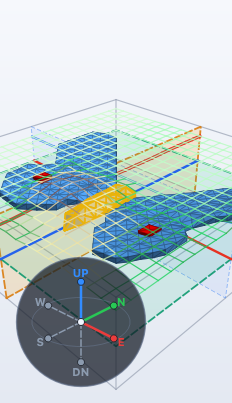
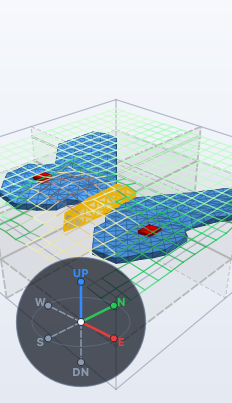
style(3d): draw profile slices and planar view in neutral grey and group checkboxes in 3d settings

diff --git a/gui/src/GL3DView.cpp b/gui/src/GL3DView.cpp
@@ -1933,7 +1933,7 @@ void GL3DView::paintSoftware(QPainter &painter) {
     double z0 = model.z_min_val();
     double z1 = model.z_max_val();
 
-    // Inactive slices (subtle blue)
+    // Inactive slices (subtle neutral grey)
     int rMaxSw = model.rows() - 2;
     int cMaxSw = model.cols() - 2;
     OctantCutState cutSw = computeOctantCutState();
@@ -1955,13 +1955,13 @@ void GL3DView::paintSoftware(QPainter &painter) {
              << project(x, model.y_max_val(), z1).first
              << project(x, model.y_min_val(), z1).first;
       }
-      painter.setBrush(m_transparentProfiles ? QColor(59, 130, 246, 20)
+      painter.setBrush(m_transparentProfiles ? QColor(140, 140, 140, 16)
                                              : Qt::NoBrush);
-      painter.setPen(QPen(QColor(59, 130, 246, 120), 1.0, Qt::DashLine));
+      painter.setPen(QPen(QColor(140, 140, 140, 110), 1.0, Qt::DashLine));
       painter.drawPolygon(poly);
 
-      // Relief intersection curve highlighted with inactive profile plane color
-      painter.setPen(QPen(QColor(59, 130, 246), 2.2, Qt::SolidLine));
+      // Relief intersection curve in neutral grey
+      painter.setPen(QPen(QColor(140, 140, 140), 1.8, Qt::SolidLine));
       if (sl.orient == ProfileOrientation::EastWest) {
         int rowIdx = std::clamp(sl.index + 1, 1, rMaxSw);
         double y = model.yd_val(rowIdx);
@@ -1991,7 +1991,7 @@ void GL3DView::paintSoftware(QPainter &painter) {
       }
     }
 
-    // Active slice (prominent amber / red)
+    // Active slice (clean neutral grey)
     for (const auto &sl : swSlices) {
       if (!sl.isActive)
         continue;
@@ -2009,13 +2009,13 @@ void GL3DView::paintSoftware(QPainter &painter) {
              << project(x, model.y_max_val(), z1).first
              << project(x, model.y_min_val(), z1).first;
       }
-      painter.setBrush(m_transparentProfiles ? QColor(245, 158, 11, 45)
+      painter.setBrush(m_transparentProfiles ? QColor(170, 170, 170, 36)
                                              : Qt::NoBrush);
-      painter.setPen(QPen(QColor(217, 119, 6, 220), 1.8, Qt::DashLine));
+      painter.setPen(QPen(QColor(180, 180, 180, 220), 1.8, Qt::DashLine));
       painter.drawPolygon(poly);
 
-      // Relief intersection curve highlighted with active profile plane color
-      painter.setPen(QPen(QColor(230, 50, 35), 3.2, Qt::SolidLine));
+      // Relief intersection curve in crisp silver-grey
+      painter.setPen(QPen(QColor(200, 200, 200), 2.8, Qt::SolidLine));
       if (sl.orient == ProfileOrientation::EastWest) {
         int rowIdx = std::clamp(sl.index + 1, 1, rMaxSw);
         double y = model.yd_val(rowIdx);
@@ -2046,7 +2046,7 @@ void GL3DView::paintSoftware(QPainter &painter) {
     }
   }
 
-  // 3b. Horizontal Planar View Plane in Software Mode
+  // 3b. Horizontal Planar View Plane in Software Mode (neutral grey)
   if (m_showPlanarPlane) {
     double sliceZ = m_doc->activeSliceElevation();
     if (std::isnan(sliceZ)) {
@@ -2069,12 +2069,12 @@ void GL3DView::paintSoftware(QPainter &painter) {
          << project(model.x_max_val(), model.y_max_val(), sliceZ).first
          << project(model.x_min_val(), model.y_max_val(), sliceZ).first;
 
-    painter.setBrush(m_transparentProfiles ? QColor(16, 185, 129, 32)
+    painter.setBrush(m_transparentProfiles ? QColor(150, 150, 150, 24)
                                            : Qt::NoBrush);
-    painter.setPen(QPen(QColor(5, 150, 105, 220), 1.8, Qt::DashLine));
+    painter.setPen(QPen(QColor(175, 175, 175, 220), 1.8, Qt::DashLine));
     painter.drawPolygon(poly);
 
-    // Draw profile intersection lines on the planar sheet
+    // Draw profile intersection lines on the planar sheet in neutral grey
     std::vector<double> ewYs;
     std::vector<double> snXs;
     if (QMdiArea *mdi = findMdiArea()) {
@@ -2096,19 +2096,18 @@ void GL3DView::paintSoftware(QPainter &painter) {
       }
     }
 
-    painter.setPen(QPen(QColor(230, 50, 35), 2.4, Qt::SolidLine));
+    painter.setPen(QPen(QColor(180, 180, 180), 2.0, Qt::SolidLine));
     for (double y : ewYs) {
       painter.drawLine(project(model.x_min_val(), y, sliceZ).first,
                        project(model.x_max_val(), y, sliceZ).first);
     }
-    painter.setPen(QPen(QColor(37, 99, 235), 2.4, Qt::SolidLine));
     for (double x : snXs) {
       painter.drawLine(project(x, model.y_min_val(), sliceZ).first,
                        project(x, model.y_max_val(), sliceZ).first);
     }
 
-    // Crosshairs at 3-plane intersections
-    painter.setPen(QPen(QColor(234, 179, 8), 3.0, Qt::SolidLine));
+    // Crosshairs at 3-plane intersections in silver-grey
+    painter.setPen(QPen(QColor(215, 215, 215), 2.5, Qt::SolidLine));
     for (double x : snXs) {
       for (double y : ewYs) {
         auto pt = project(x, y, sliceZ).first;
@@ -3303,11 +3302,11 @@ void GL3DView::drawProfilePlane() {
       profileTris.push_back({p3.x(), p3.y(), p3.z(), r, g, b, a});
     };
 
-    // Inactive profile planes
+    // Inactive profile planes (subtle translucent neutral grey)
     for (const auto &sl : slices) {
       if (sl.isActive)
         continue;
-      float r = 0.35f, g = 0.55f, b = 0.85f, a = 0.08f;
+      float r = 0.55f, g = 0.55f, b = 0.55f, a = 0.06f;
       if (sl.orient == ProfileOrientation::EastWest) {
         float y = static_cast<float>(m.yd_val(sl.index + 1));
         addQuad(QVector3D(x0, y, z0), QVector3D(x1, y, z0),
@@ -3319,11 +3318,11 @@ void GL3DView::drawProfilePlane() {
       }
     }
 
-    // Active profile plane
+    // Active profile plane (clean translucent neutral grey)
     for (const auto &sl : slices) {
       if (!sl.isActive)
         continue;
-      float r = 0.96f, g = 0.28f, b = 0.22f, a = 0.26f;
+      float r = 0.65f, g = 0.65f, b = 0.65f, a = 0.16f;
       if (sl.orient == ProfileOrientation::EastWest) {
         float y = static_cast<float>(m.yd_val(sl.index + 1));
         addQuad(QVector3D(x0, y, z0), QVector3D(x1, y, z0),
@@ -3363,7 +3362,7 @@ void GL3DView::drawProfilePlane() {
   for (const auto &sl : slices) {
     if (sl.isActive)
       continue;
-    float r = 0.35f, g = 0.60f, b = 0.85f, a = 0.50f;
+    float r = 0.55f, g = 0.55f, b = 0.55f, a = 0.45f;
     if (sl.orient == ProfileOrientation::EastWest) {
       float y = static_cast<float>(m.yd_val(sl.index + 1));
       addLoopLines(inactiveLines, QVector3D(x0, y, z0), QVector3D(x1, y, z0),
@@ -3378,21 +3377,21 @@ void GL3DView::drawProfilePlane() {
   for (const auto &sl : slices) {
     if (!sl.isActive)
       continue;
-    float r = 0.96f, g = 0.20f, b = 0.15f, a = 0.95f;
+    float r = 0.75f, g = 0.75f, b = 0.75f, a = 0.90f;
     if (sl.orient == ProfileOrientation::EastWest) {
       float y = static_cast<float>(m.yd_val(sl.index + 1));
       addLoopLines(activeLines, QVector3D(x0, y, z0), QVector3D(x1, y, z0),
                    QVector3D(x1, y, z1), QVector3D(x0, y, z1), r, g, b, a);
-      // Golden accent line on top ridge
-      ridgeLines.push_back({x0, y, z1, 1.0f, 0.85f, 0.20f, 0.95f});
-      ridgeLines.push_back({x1, y, z1, 1.0f, 0.85f, 0.20f, 0.95f});
+      // Silver-grey accent line on top ridge
+      ridgeLines.push_back({x0, y, z1, 0.85f, 0.85f, 0.85f, 0.92f});
+      ridgeLines.push_back({x1, y, z1, 0.85f, 0.85f, 0.85f, 0.92f});
     } else {
       float x = static_cast<float>(m.xd_val(sl.index + 1));
       addLoopLines(activeLines, QVector3D(x, y0, z0), QVector3D(x, y1, z0),
                    QVector3D(x, y1, z1), QVector3D(x, y0, z1), r, g, b, a);
-      // Golden accent line on top ridge
-      ridgeLines.push_back({x, y0, z1, 1.0f, 0.85f, 0.20f, 0.95f});
-      ridgeLines.push_back({x, y1, z1, 1.0f, 0.85f, 0.20f, 0.95f});
+      // Silver-grey accent line on top ridge
+      ridgeLines.push_back({x, y0, z1, 0.85f, 0.85f, 0.85f, 0.92f});
+      ridgeLines.push_back({x, y1, z1, 0.85f, 0.85f, 0.85f, 0.92f});
     }
   }
 
@@ -3410,11 +3409,11 @@ void GL3DView::drawProfilePlane() {
 
   for (const auto &sl : slices) {
     auto &targetLines = sl.isActive ? activeReliefLines : inactiveReliefLines;
-    // Highlighting color of the profile plane
-    float r = sl.isActive ? 0.98f : 0.32f;
-    float g = sl.isActive ? 0.22f : 0.65f;
-    float b = sl.isActive ? 0.16f : 0.96f;
-    float a = sl.isActive ? 1.0f : 0.90f;
+    // Highlighting color of the profile plane in neutral grey
+    float r = sl.isActive ? 0.82f : 0.58f;
+    float g = sl.isActive ? 0.82f : 0.58f;
+    float b = sl.isActive ? 0.82f : 0.58f;
+    float a = sl.isActive ? 0.95f : 0.75f;
 
     if (sl.orient == ProfileOrientation::EastWest) {
       int rowIdx = std::clamp(sl.index + 1, 1, rMax);
@@ -3507,8 +3506,8 @@ void GL3DView::drawPlanarPlane() {
       planarTris.push_back({p3.x(), p3.y(), p3.z(), r, g, b, a});
     };
 
-    // Elegant emerald / teal translucent sheet
-    float r = 0.08f, g = 0.72f, b = 0.58f, a = 0.18f;
+    // Neutral grey translucent sheet
+    float r = 0.58f, g = 0.58f, b = 0.58f, a = 0.12f;
     addQuad(QVector3D(x0, y0, zPlanar), QVector3D(x1, y0, zPlanar),
             QVector3D(x1, y1, zPlanar), QVector3D(x0, y1, zPlanar), r, g, b, a);
 
@@ -3537,10 +3536,10 @@ void GL3DView::drawPlanarPlane() {
     target.push_back({p0.x(), p0.y(), p0.z(), r, g, b, a});
   };
 
-  // Perimeter boundary in crisp emerald / cyan
+  // Perimeter boundary in neutral grey
   addLoopLines(planarLines, QVector3D(x0, y0, zPlanar),
                QVector3D(x1, y0, zPlanar), QVector3D(x1, y1, zPlanar),
-               QVector3D(x0, y1, zPlanar), 0.10f, 0.82f, 0.65f, 0.90f);
+               QVector3D(x0, y1, zPlanar), 0.75f, 0.75f, 0.75f, 0.85f);
 
   // 3. Intersections with open profile planes
   QMdiArea *mdi = findMdiArea();
@@ -3557,7 +3556,7 @@ void GL3DView::drawPlanarPlane() {
   std::vector<float> snXs;
 
   if (openPvs.empty()) {
-    float r = 0.96f, g = 0.35f, b = 0.20f, a = 0.95f;
+    float r = 0.70f, g = 0.70f, b = 0.70f, a = 0.85f;
     if (m_doc->profileOrientation() == ProfileOrientation::EastWest) {
       float y = static_cast<float>(m.yd_val(m_doc->profileIndex() + 1));
       ewYs.push_back(y);
@@ -3574,13 +3573,13 @@ void GL3DView::drawPlanarPlane() {
       if (pv->profileOrientation() == ProfileOrientation::EastWest) {
         float y = static_cast<float>(m.yd_val(pv->profileIndex() + 1));
         ewYs.push_back(y);
-        float r = 0.96f, g = 0.30f, b = 0.20f, a = 0.95f;
+        float r = 0.70f, g = 0.70f, b = 0.70f, a = 0.85f;
         intersectLines.push_back({x0, y, zPlanar, r, g, b, a});
         intersectLines.push_back({x1, y, zPlanar, r, g, b, a});
       } else {
         float x = static_cast<float>(m.xd_val(pv->profileIndex() + 1));
         snXs.push_back(x);
-        float r = 0.20f, g = 0.65f, b = 0.96f, a = 0.95f;
+        float r = 0.70f, g = 0.70f, b = 0.70f, a = 0.85f;
         intersectLines.push_back({x, y0, zPlanar, r, g, b, a});
         intersectLines.push_back({x, y1, zPlanar, r, g, b, a});
       }
@@ -3592,7 +3591,7 @@ void GL3DView::drawPlanarPlane() {
     float armZ = std::max(20.0f, (z1Raw - z0Raw) * 0.025f * m_zScale);
     for (float xInt : snXs) {
       for (float yInt : ewYs) {
-        float cr = 1.0f, cg = 0.88f, cb = 0.25f, ca = 1.0f;
+        float cr = 0.85f, cg = 0.85f, cb = 0.85f, ca = 0.90f;
         crosshairLines.push_back({xInt - armX, yInt, zPlanar, cr, cg, cb, ca});
         crosshairLines.push_back({xInt + armX, yInt, zPlanar, cr, cg, cb, ca});
         crosshairLines.push_back({xInt, yInt - armY, zPlanar, cr, cg, cb, ca});
@@ -4210,6 +4209,12 @@ void GL3DView::showContextMenu(const QPoint &globalPos) {
   actProfile->setCheckable(true);
   actProfile->setChecked(m_showProfilePlane);
 
+  auto *actPlanar =
+      menu.addAction(tr("Show Planar View Plane"), this,
+                     [this](bool checked) { setShowPlanarPlane(checked); });
+  actPlanar->setCheckable(true);
+  actPlanar->setChecked(m_showPlanarPlane);
+
   auto *actTranspBodies =
       menu.addAction(tr("Transparent Bodies"), this, [this](bool checked) {
         setShowTransparentBodies(checked);
@@ -4240,12 +4245,6 @@ void GL3DView::showContextMenu(const QPoint &globalPos) {
                      [this](bool checked) { setShowOuterFacets(checked); });
   actOuter->setCheckable(true);
   actOuter->setChecked(m_showOuterFacets);
-
-  auto *actPlanar =
-      menu.addAction(tr("Show Planar View Plane"), this,
-                     [this](bool checked) { setShowPlanarPlane(checked); });
-  actPlanar->setCheckable(true);
-  actPlanar->setChecked(m_showPlanarPlane);
 
   auto *actOctCut =
       menu.addAction(tr("Octant Cut (Front Profiles & Slice) (C)"), this,

diff --git a/gui/src/SettingsPane.cpp b/gui/src/SettingsPane.cpp
@@ -674,6 +674,14 @@ void SettingsPane::setupDisplayTab(QWidget *container) {
   m_chk3DSlices =
       new QCheckBox(tr("Profile Slices (Open Views)"), box3DToggles);
   m_chk3DSlices->setChecked(true);
+  m_chk3DPlanarSlice =
+      new QCheckBox(tr("Horizontal Planar View Plane"), box3DToggles);
+  m_chk3DPlanarSlice->setChecked(true);
+  m_chk3DPlanarSlice->setToolTip(tr("Show the horizontal planar modeling slice "
+                                    "plane (Z = active slice elevation)"));
+  m_chk3DTransparentSlices =
+      new QCheckBox(tr("Transparent Profile / Section Slices"), box3DToggles);
+  m_chk3DTransparentSlices->setChecked(true);
   m_chk3DCompass = new QCheckBox(tr("Orientation Compass Triad"), box3DToggles);
   m_chk3DCompass->setChecked(true);
   m_chk3DBoundingBox = new QCheckBox(tr("Bounding Box"), box3DToggles);
@@ -705,14 +713,6 @@ void SettingsPane::setupDisplayTab(QWidget *container) {
   m_chk3DTransparentBodies =
       new QCheckBox(tr("Transparent Bodies"), box3DToggles);
   m_chk3DTransparentBodies->setChecked(false);
-  m_chk3DTransparentSlices =
-      new QCheckBox(tr("Transparent Profile / Section Slices"), box3DToggles);
-  m_chk3DTransparentSlices->setChecked(true);
-  m_chk3DPlanarSlice =
-      new QCheckBox(tr("Horizontal Planar View Plane"), box3DToggles);
-  m_chk3DPlanarSlice->setChecked(true);
-  m_chk3DPlanarSlice->setToolTip(tr("Show the horizontal planar modeling slice "
-                                    "plane (Z = active slice elevation)"));
   m_chk3DOctantCut =
       new QCheckBox(tr("Octant Cut (Front Profiles & Slice)"), box3DToggles);
   m_chk3DOctantCut->setChecked(false);
@@ -721,6 +721,8 @@ void SettingsPane::setupDisplayTab(QWidget *container) {
          "planes and horizontal planar slice (Shortcut: C)"));
 
   toggles3DLayout->addWidget(m_chk3DSlices);
+  toggles3DLayout->addWidget(m_chk3DPlanarSlice);
+  toggles3DLayout->addWidget(m_chk3DTransparentSlices);
   toggles3DLayout->addWidget(m_chk3DCompass);
   toggles3DLayout->addWidget(m_chk3DBoundingBox);
   toggles3DLayout->addWidget(m_chk3DFeatureEdges);
@@ -729,8 +731,6 @@ void SettingsPane::setupDisplayTab(QWidget *container) {
   toggles3DLayout->addWidget(m_chk3DOrtho);
   toggles3DLayout->addWidget(m_chk3DDepthFog);
   toggles3DLayout->addWidget(m_chk3DTransparentBodies);
-  toggles3DLayout->addWidget(m_chk3DTransparentSlices);
-  toggles3DLayout->addWidget(m_chk3DPlanarSlice);
   toggles3DLayout->addWidget(m_chk3DOctantCut);
   v3dLayout->addWidget(box3DToggles);
 
